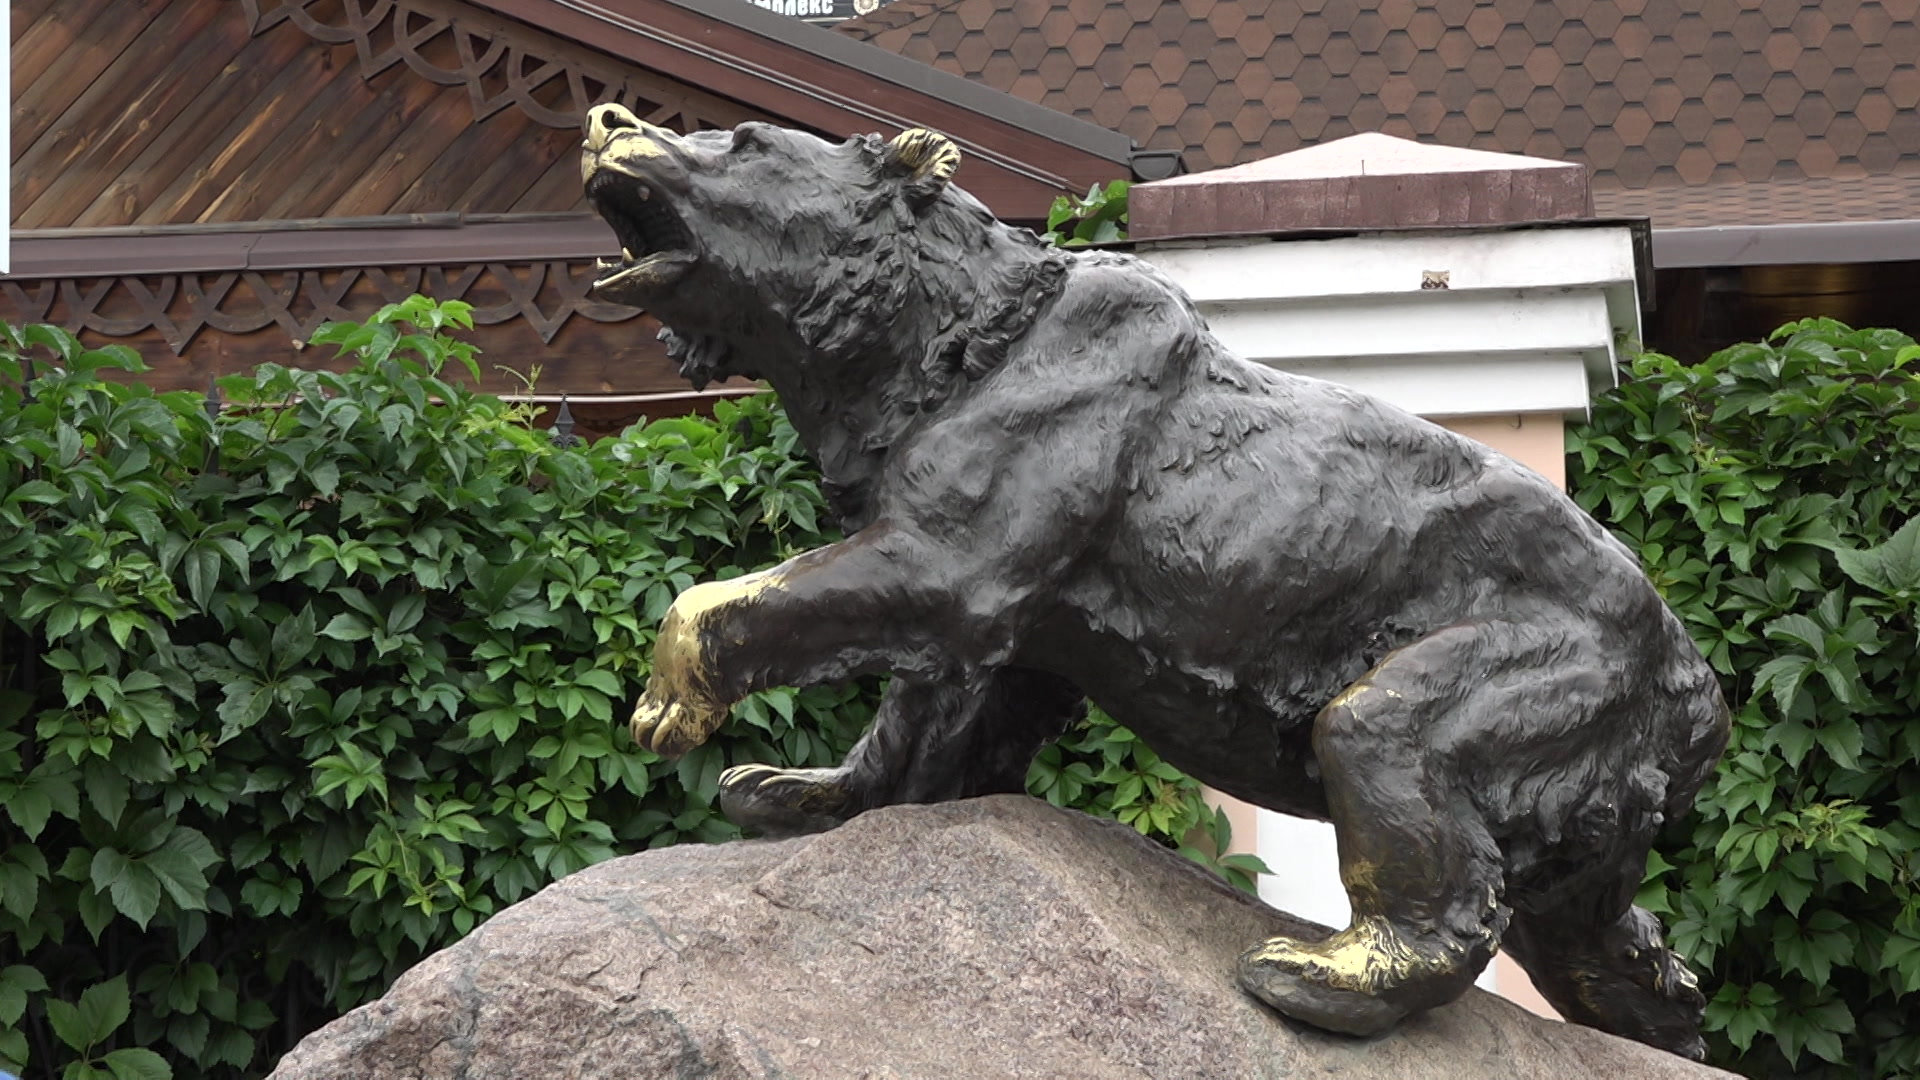
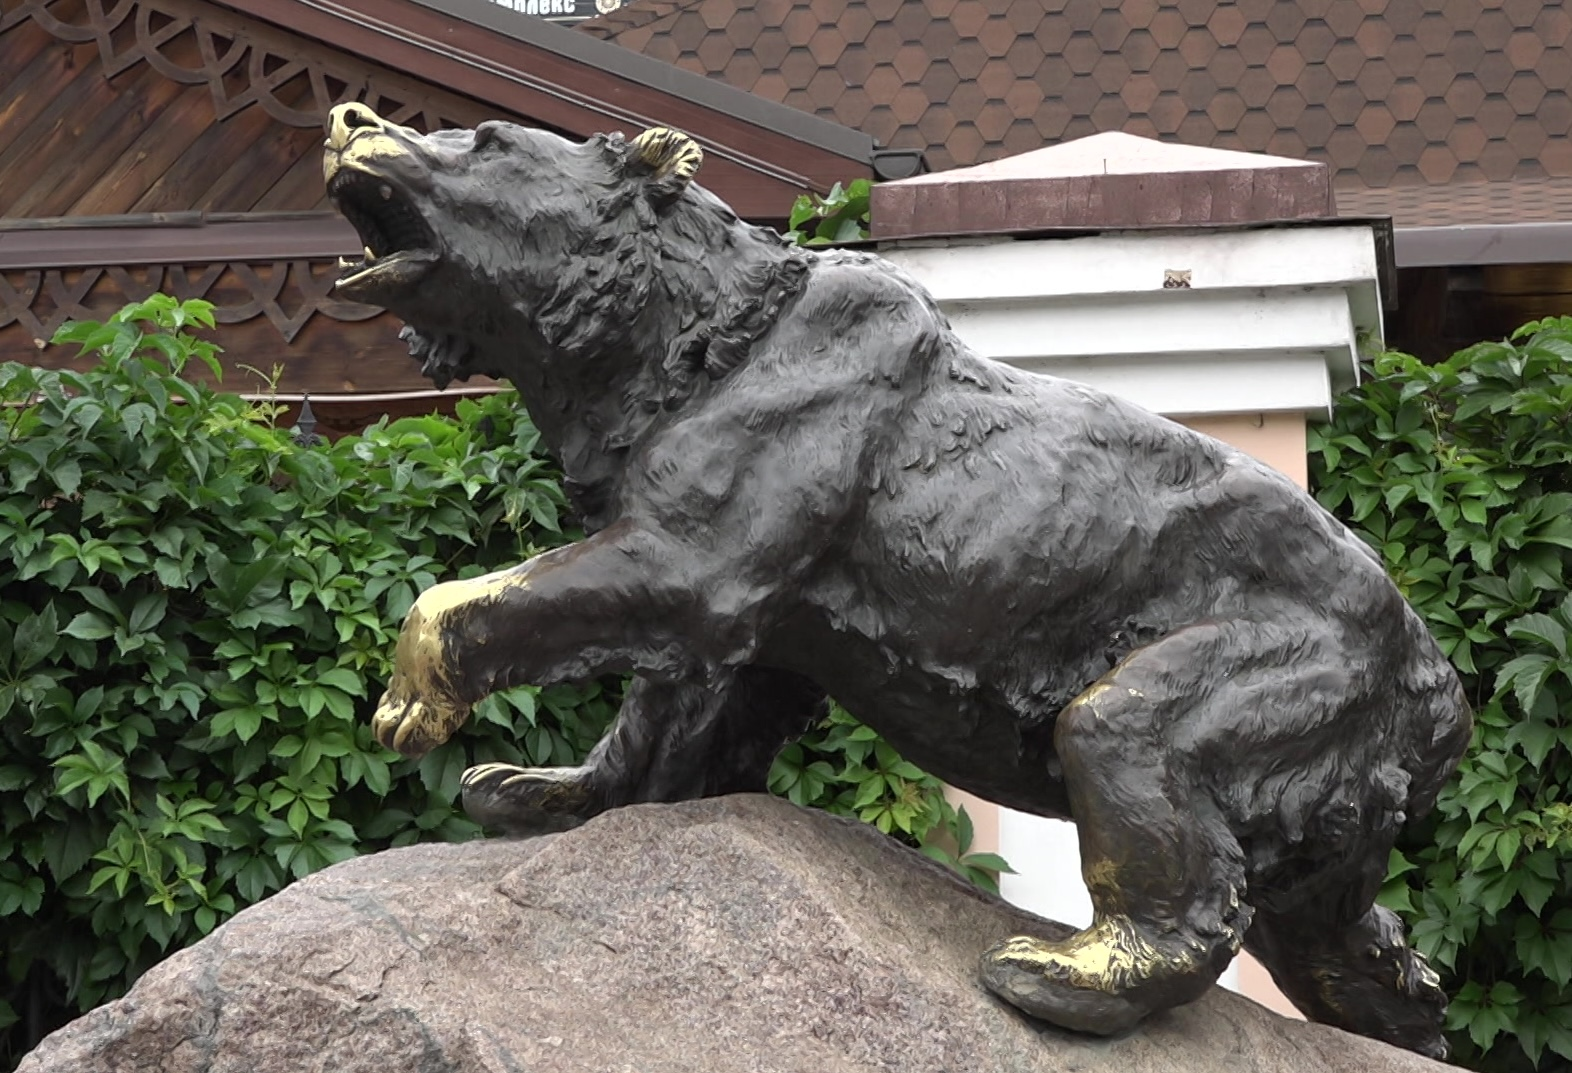
added progress bar and some descriptions

diff --git a/src/components/bears/visitedBears.js b/src/components/bears/visitedBears.js
@@ -3,28 +3,32 @@ import { useState, useEffect } from "react";
 const STORAGE_KEY = "visited-bears";
 
 export function useVisitedBears() {
-    const [visited, setVisited] = useState(() => {
-        try {
-            const raw = localStorage.getItem(STORAGE_KEY);
-            return raw ? JSON.parse(raw) : [];
-        } catch {
-            return [];
-        }
-    });
+  const [visited, setVisited] = useState(() => {
+    try {
+      const raw = localStorage.getItem(STORAGE_KEY);
+      return raw ? JSON.parse(raw) : [];
+    } catch {
+      return [];
+    }
+  });
 
-    useEffect(() => {
-        localStorage.setItem(STORAGE_KEY, JSON.stringify(visited));
-    }, [visited]);
+  useEffect(() => {
+    localStorage.setItem(STORAGE_KEY, JSON.stringify(visited));
+  }, [visited]);
 
-    const toggle = (bearId) => {
-        setVisited((prev) =>
-            prev.includes(bearId)
-                ? prev.filter((id) => id !== bearId)
-                : [...prev, bearId]
-        );
-    };
+  const toggle = (bearId) => {
+    setVisited((prev) =>
+      prev.includes(bearId)
+        ? prev.filter((id) => id !== bearId)
+        : [...prev, bearId]
+    );
+  };
 
-    const isVisited = (bearId) => visited.includes(bearId);
+  const isVisited = (bearId) => visited.includes(bearId);
 
-    return { visited, toggle, isVisited };
+  const reset = () => {
+    setVisited([]);
+  };
+
+  return { visited, toggle, isVisited, reset };
 }

diff --git a/src/components/bears/BearsSection.jsx b/src/components/bears/BearsSection.jsx
@@ -5,9 +5,10 @@ import { BearCard } from "./BearCard";
 import { useVisitedBears } from "./visitedBears";
 
 export function BearsSection() {
-  const { visited, toggle, isVisited } = useVisitedBears();
+  const { visited, toggle, isVisited, reset } = useVisitedBears();
   const bearList = Object.values(bears);
   const total = bearList.length;
+  const progress = total === 0 ? 0 : (visited.length / total) * 100;
 
   return (
     <section id="bears">
@@ -20,9 +21,29 @@ export function BearsSection() {
         }
       />
 
-      <p className="bears-progress">
-        Посещено: {visited.length} из {total}
-      </p>
+      <div className="bears-progress">
+        <div className="bears-progress-header">
+          <span className="bears-progress-label">
+            Посещено: {visited.length} из {total}
+          </span>
+          {visited.length > 0 && (
+            <button
+              type="button"
+              className="bears-reset-button"
+              onClick={reset}
+            >
+              Сбросить
+            </button>
+          )}
+        </div>
+
+        <div className="bears-progress-track">
+          <div
+            className="bears-progress-fill"
+            style={{ width: `${progress}%` }}
+          />
+        </div>
+      </div>
 
       <div className="bears-grid">
         {bearList.map((bear) => (

diff --git a/src/App.jsx b/src/App.jsx
@@ -10,7 +10,13 @@ function App() {
     <>
       <NavBar />
       <div className="app-container">
-        <p>TBD: Тут какой-то текст про этот путеводитель</p>
+        <p className='start-text'>
+          Ярославль - город с тысячелетней историей, и рассказать о нём можно по-разному. 
+          Мы решили рассказать об этом через его медведей — скульптур, установленных по всему городу.
+          Прогуливаясь от одного медведя к другому, вы увидите Ярославль как древнюю крепость, торговый центр, 
+          губернскую столицу и современный город. Мы собрали несколько маршрутов, 
+          чтобы каждый мог выбрать подходящий и познакомиться с городом в удобном для себя темпе.
+        </p>
         <RoutesSection />
         <BearsSection />
         <SourcesSection />

diff --git a/src/components/bears/BearsSection.css b/src/components/bears/BearsSection.css
@@ -20,3 +20,53 @@
   padding: 16px;
   flex: 1;
 }
+
+.bears-progress {
+  margin: 24px 0 8px;
+}
+
+.bears-progress-header {
+  display: flex;
+  align-items: center;
+  justify-content: space-between;
+  gap: 12px;
+  margin-bottom: 10px;
+}
+
+.bears-progress-label {
+  font-size: 16px;
+  color: rgb(133, 29, 9);
+  font-weight: 600;
+}
+
+.bears-reset-button {
+  font-family: "Science Gothic", sans-serif;
+  border: 2px solid rgb(133, 29, 9);
+  background: transparent;
+  color: rgb(133, 29, 9);
+  padding: 6px 14px;
+  border-radius: 16px;
+  font-size: 14px;
+  cursor: pointer;
+  transition: background 0.2s, color 0.2s;
+}
+
+.bears-reset-button:hover {
+  background: rgb(133, 29, 9);
+  color: white;
+}
+
+.bears-progress-track {
+  width: 100%;
+  height: 12px;
+  background: rgba(133, 29, 9, 0.15);
+  border-radius: 6px;
+  overflow: hidden;
+}
+
+.bears-progress-fill {
+  height: 100%;
+  background: rgb(133, 29, 9);
+  border-radius: 6px;
+  transition: width 0.4s ease;
+}

diff --git a/src/data/bears.js b/src/data/bears.js
@@ -80,7 +80,7 @@ export const bears = {
       "описание карточки",
     sourceUrl:
       "",
-    image: "src/assets/artist.webp"
+    image: "src/assets/artist.jpg"
   },
 
   traveler: {
@@ -93,7 +93,7 @@ export const bears = {
       "описание карточки",
     sourceUrl:
       "",
-    image: "src/assets/traveler.webp"
+    image: "src/assets/traveler.jpg"
   },
 
   clerk: {
@@ -132,7 +132,7 @@ export const bears = {
       "описание карточки",
     sourceUrl:
       "",
-    image: "src/assets/writer.webp"
+    image: "src/assets/writer.jpg"
   },
 
   blacksmith: {
@@ -171,7 +171,7 @@ export const bears = {
       "описание карточки",
     sourceUrl:
       "",
-    image: "src/assets/welcoming.webp"
+    image: "src/assets/welcoming.jpg"
   },
 
   friendly: {

diff --git a/src/components/routes/RoutesSection.jsx b/src/components/routes/RoutesSection.jsx
@@ -112,7 +112,7 @@ export function RoutesSection() {
                 id="routes"
                 title={"Маршруты"}
                 level={2}
-                text={"TBD: Тут какой-то текст про маршруты"}
+                text={"Выберите маршрут с помощью кнопок над картой. На карте отобразится путь и все остановки. Под картой находится лента слайдов: первый слайд рассказывает о маршруте, а остальные о его остановках. При перелистывании слайдов карта перемещается к соответствующей точке."}
             />
 
             <RouteSelector

diff --git a/src/App.css b/src/App.css
@@ -7,3 +7,7 @@
   box-sizing: border-box;
   padding-top: 75px;
 }
+
+.start-text {
+  font-size: 15px;
+}
